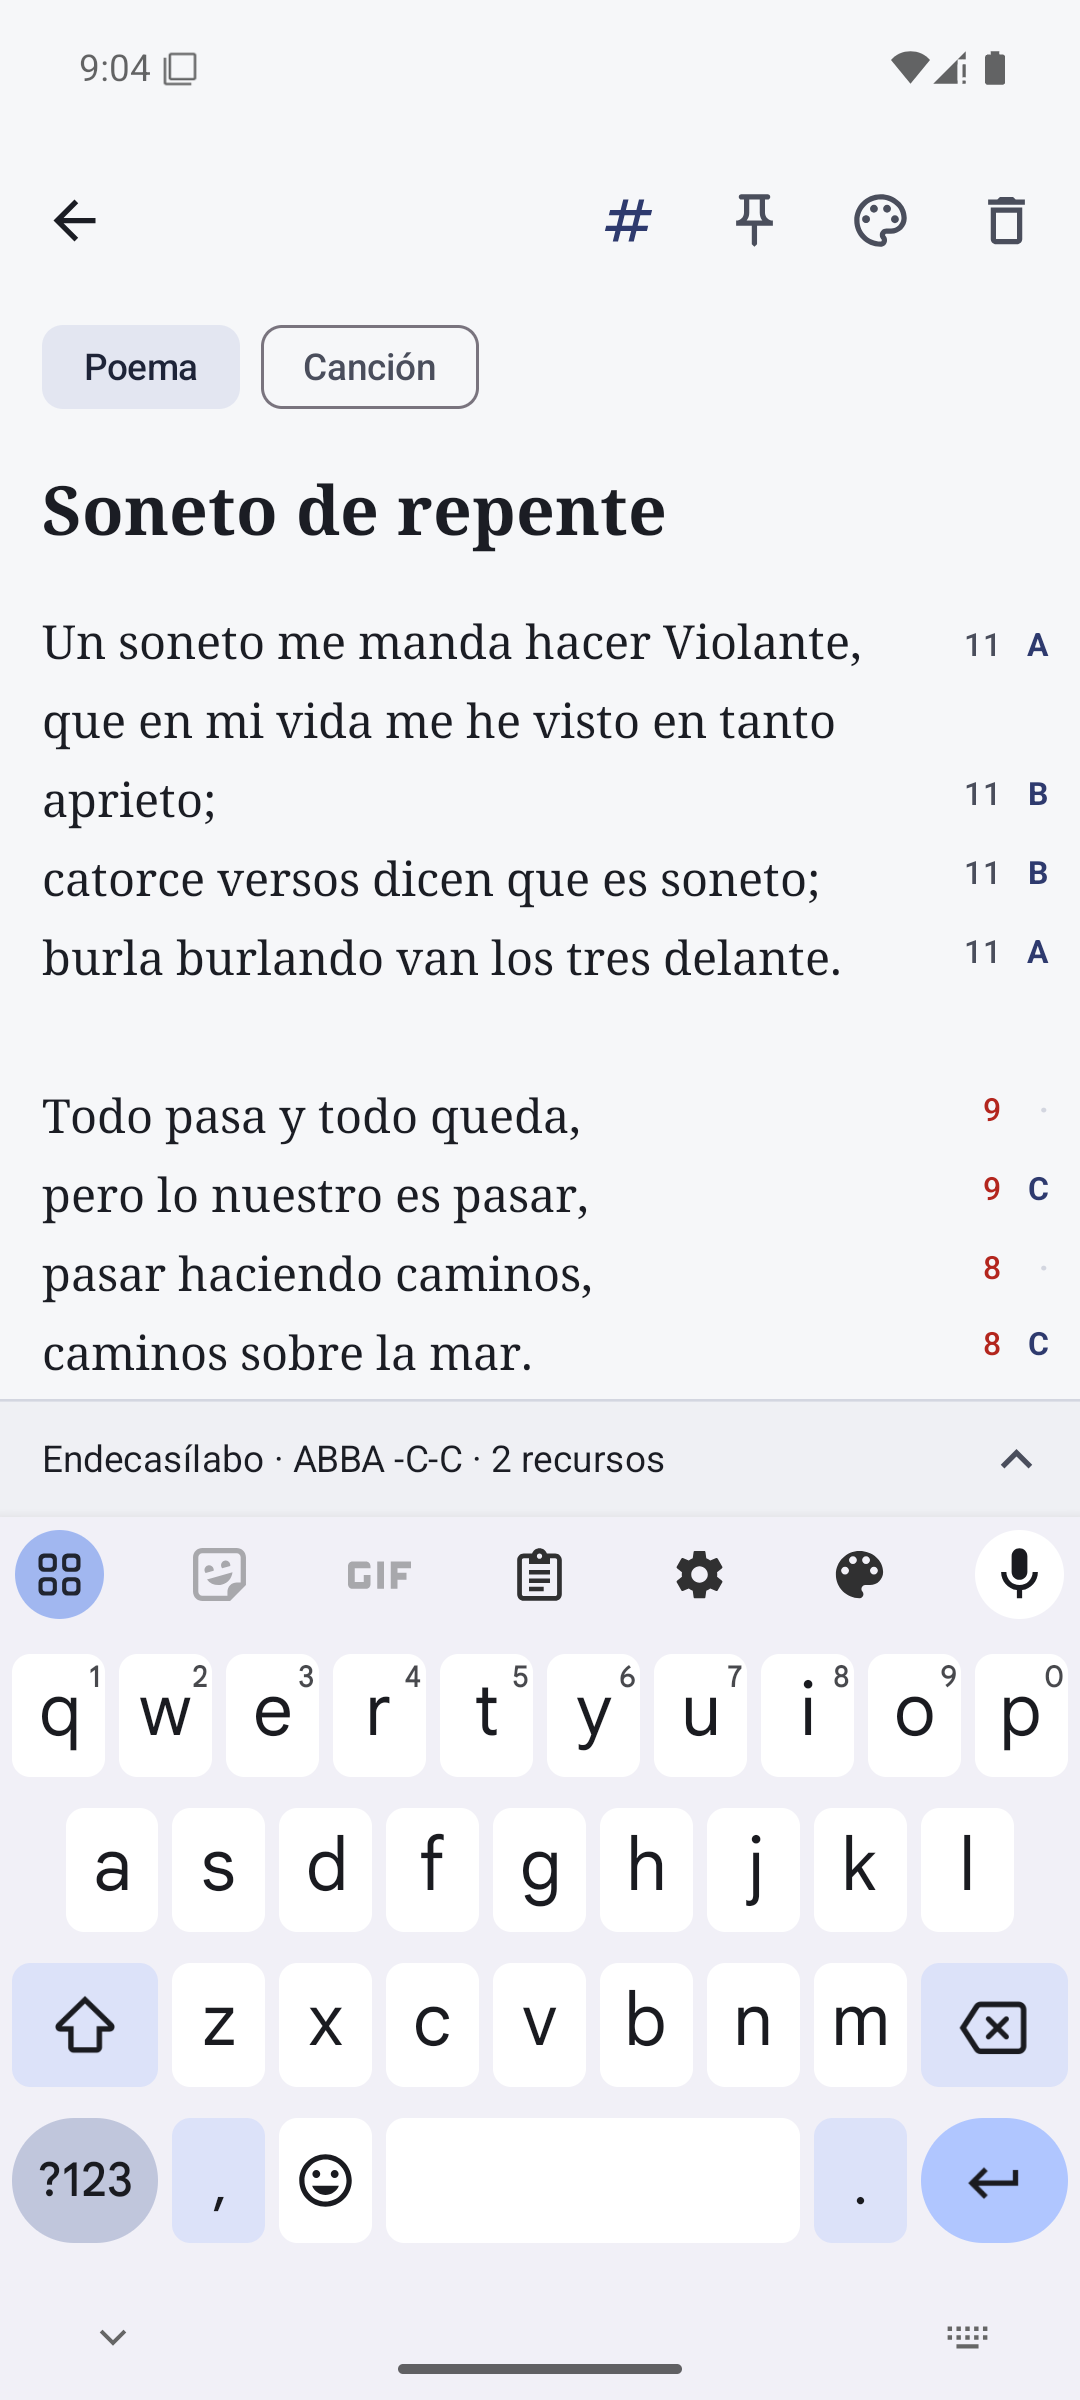
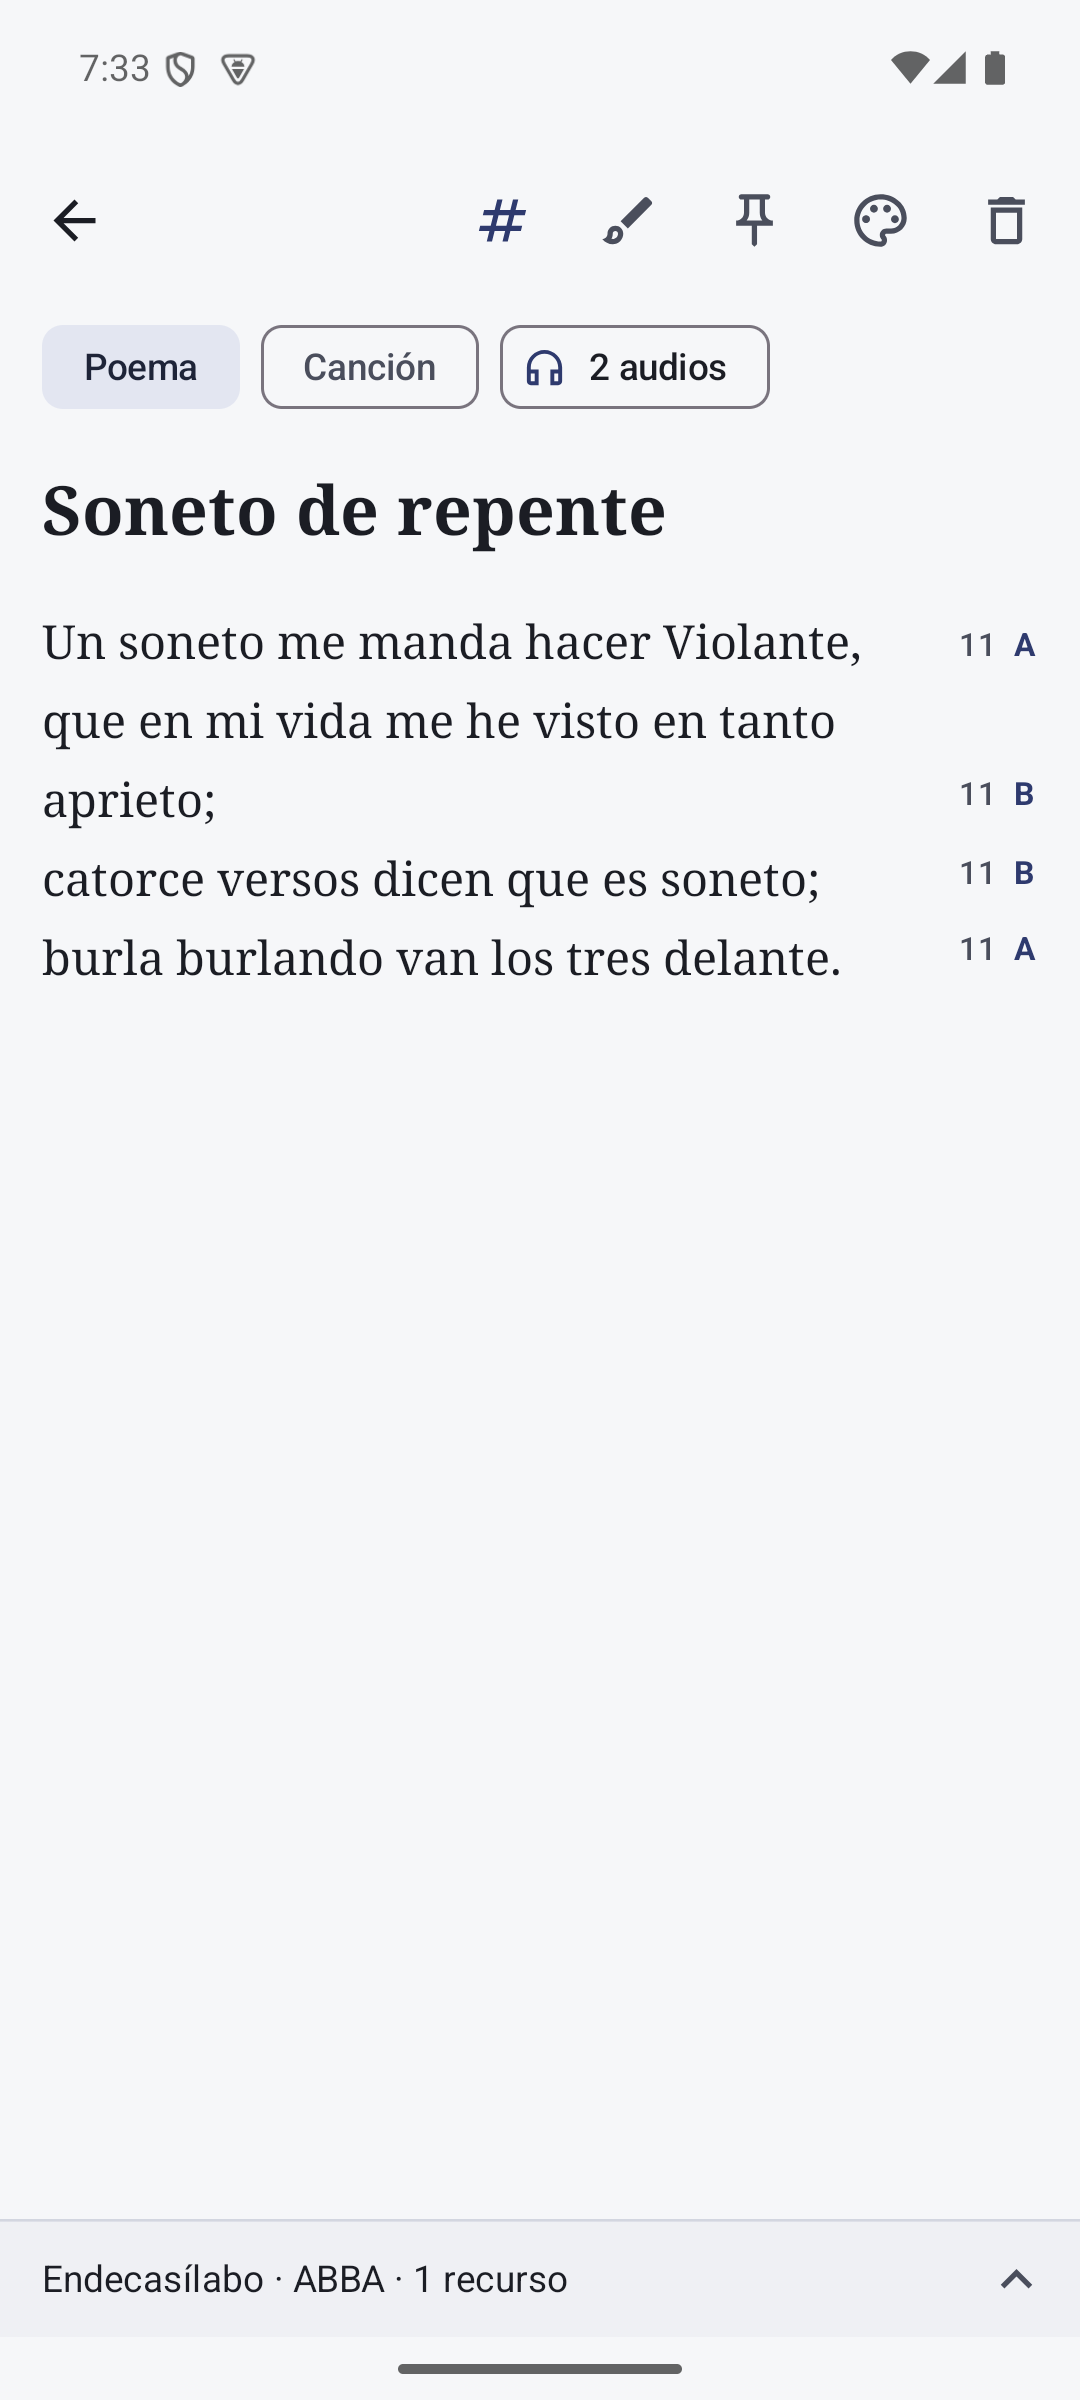
Docs: new screenshots for the README and documentation
Retaken on the emulator with the current app (bottom bar, brush and info
buttons, audios chip) and extended to the new features: notes home, rhyme
colouring, device info dialog, audios list, recording and a note's audios.
The README shows a gallery of eight; editor and architecture docs use them
in both languages.

diff --git a/docs/es/editor.md b/docs/es/editor.md
@@ -7,16 +7,22 @@ está en [analysis-engine.md](analysis-engine.md); el ciclo de vida de la nota, 
 [architecture.md](architecture.md).
 
 <p align="center">
-  <img src="../screenshots/editor-margin.png" width="220" alt="Margen de sílabas y rimas">
-  <img src="../screenshots/alliteration-clear.png" width="220" alt="Aliteración clara subrayada">
-  <img src="../screenshots/alliteration-possible-dark.png" width="220" alt="Aliteración posible punteada, modo oscuro">
+  <img src="../screenshots/editor-margin.png" width="200" alt="Margen de sílabas y rimas, con el chip de audios">
+  <img src="../screenshots/rhyme-colours.png" width="200" alt="Rimas coloreadas y el panel desplegado con su leyenda">
+  <img src="../screenshots/device-highlighted.png" width="200" alt="Un recurso elegido, resaltado con fondo">
+  <img src="../screenshots/device-info.png" width="200" alt="Diálogo de información de un recurso literario">
+</p>
+<p align="center">
+  <img src="../screenshots/alliteration-clear.png" width="200" alt="Aliteración clara, subrayado sólido">
+  <img src="../screenshots/alliteration-possible-dark.png" width="200" alt="Aliteración posible, subrayado punteado, modo oscuro">
+  <img src="../screenshots/note-audios.png" width="200" alt="Panel con los audios de la nota">
 </p>
 
 ## Qué ve quien escribe
 
 ```
- ←                      #   📌  🎨  🗑
- [Poema] [Canción]
+ ←                  #   🖌  📌  🎨  🗑
+ [Poema] [Canción] [🎧 2 audios]
  Soneto de repente
  Un soneto me manda hacer Violante,        11  A
  que en mi vida me he visto en tanto

diff --git a/README.es.md b/README.es.md
@@ -11,9 +11,16 @@ aliteración, la anáfora o el paralelismo. Además guarda **notas de voz y maqu
 en la app o se adjuntan audios, y se vinculan a las notas a las que pertenecen.
 
 <p align="center">
-  <img src="docs/screenshots/editor-margin.png" width="240" alt="Editor con sílabas y rimas al margen">
-  <img src="docs/screenshots/device-highlighted.png" width="240" alt="Anadiplosis resaltada en el texto">
-  <img src="docs/screenshots/alliteration-possible-dark.png" width="240" alt="Aliteración posible en modo oscuro">
+  <img src="docs/screenshots/home-notes.png" width="200" alt="Sección de notas: tarjetas con colores y contador de audios">
+  <img src="docs/screenshots/rhyme-colours.png" width="200" alt="Editor con sílabas, letras de rima y rimas coloreadas">
+  <img src="docs/screenshots/device-highlighted.png" width="200" alt="Un recurso literario (anadiplosis) resaltado en el texto">
+  <img src="docs/screenshots/audios.png" width="200" alt="Sección de audios: reproduciendo un audio vinculado a una nota">
+</p>
+<p align="center">
+  <img src="docs/screenshots/device-info.png" width="200" alt="Explicación de un recurso literario con un ejemplo clásico">
+  <img src="docs/screenshots/alliteration-possible-dark.png" width="200" alt="Aliteración posible con subrayado punteado, modo oscuro">
+  <img src="docs/screenshots/note-audios.png" width="200" alt="Audios vinculados a una nota, con uno sonando">
+  <img src="docs/screenshots/recording.png" width="200" alt="Grabando un audio">
 </p>
 
 ## Qué hace

diff --git a/docs/editor.md b/docs/editor.md
@@ -7,16 +7,22 @@ is in [analysis-engine.md](analysis-engine.md); the note's lifecycle, in
 [architecture.md](architecture.md).
 
 <p align="center">
-  <img src="screenshots/editor-margin.png" width="220" alt="Syllable and rhyme margin">
-  <img src="screenshots/alliteration-clear.png" width="220" alt="Clear alliteration, underlined">
-  <img src="screenshots/alliteration-possible-dark.png" width="220" alt="Possible alliteration, dotted, dark mode">
+  <img src="screenshots/editor-margin.png" width="200" alt="Syllable and rhyme margin, with the Audios chip">
+  <img src="screenshots/rhyme-colours.png" width="200" alt="Rhyme colouring and the expanded panel with its legend">
+  <img src="screenshots/device-highlighted.png" width="200" alt="A selected device highlighted with a background">
+  <img src="screenshots/device-info.png" width="200" alt="Info dialog of a literary device">
+</p>
+<p align="center">
+  <img src="screenshots/alliteration-clear.png" width="200" alt="Clear alliteration, solid underline">
+  <img src="screenshots/alliteration-possible-dark.png" width="200" alt="Possible alliteration, dotted underline, dark mode">
+  <img src="screenshots/note-audios.png" width="200" alt="The note's audios sheet">
 </p>
 
 ## What the writer sees
 
 ```
- ←                      #   📌  🎨  🗑
- [Poema] [Canción]
+ ←                  #   🖌  📌  🎨  🗑
+ [Poema] [Canción] [🎧 2 audios]
  Soneto de repente
  Un soneto me manda hacer Violante,        11  A
  que en mi vida me he visto en tanto

diff --git a/README.md b/README.md
@@ -13,9 +13,16 @@ them in the app or attach audio files, and link them to the notes they belong to
 The app's interface and analysis are in Spanish, and it is designed for Spanish verse.
 
 <p align="center">
-  <img src="docs/screenshots/editor-margin.png" width="240" alt="Editor with syllables and rhymes in the margin">
-  <img src="docs/screenshots/device-highlighted.png" width="240" alt="Anadiplosis highlighted in the text">
-  <img src="docs/screenshots/alliteration-possible-dark.png" width="240" alt="Possible alliteration in dark mode">
+  <img src="docs/screenshots/home-notes.png" width="200" alt="Notes section: cards with colours and audio counters">
+  <img src="docs/screenshots/rhyme-colours.png" width="200" alt="Editor with syllables, rhyme letters and coloured rhymes">
+  <img src="docs/screenshots/device-highlighted.png" width="200" alt="A literary device (anadiplosis) highlighted in the text">
+  <img src="docs/screenshots/audios.png" width="200" alt="Audios section: playing an audio linked to a note">
+</p>
+<p align="center">
+  <img src="docs/screenshots/device-info.png" width="200" alt="Explanation of a literary device with a classic example">
+  <img src="docs/screenshots/alliteration-possible-dark.png" width="200" alt="Possible alliteration with a dotted underline, dark mode">
+  <img src="docs/screenshots/note-audios.png" width="200" alt="A note's linked audios, playing one">
+  <img src="docs/screenshots/recording.png" width="200" alt="Recording an audio">
 </p>
 
 ## Features

diff --git a/docs/es/architecture.md b/docs/es/architecture.md
@@ -168,6 +168,12 @@ Dos detalles evitan notas duplicadas:
 
 ## Audios
 
+<p align="center">
+  <img src="../screenshots/audios.png" width="200" alt="Sección de audios">
+  <img src="../screenshots/recording.png" width="200" alt="Grabando">
+  <img src="../screenshots/note-audios.png" width="200" alt="Audios de una nota">
+</p>
+
 **Grabación** (`AudioRecorder`, manejado por `AudiosViewModel`): AAC en un archivo `.m4a`,
 mono, 44,1 kHz, 128 kbps (alrededor de 1 MB por minuto). El panel de grabación consulta el
 tiempo transcurrido y el nivel de entrada cada 100 ms. Cuando la app pasa a segundo plano

diff --git a/docs/architecture.md b/docs/architecture.md
@@ -166,6 +166,12 @@ Two details prevent duplicate notes:
 
 ## Audios
 
+<p align="center">
+  <img src="screenshots/audios.png" width="200" alt="Audios section">
+  <img src="screenshots/recording.png" width="200" alt="Recording">
+  <img src="screenshots/note-audios.png" width="200" alt="A note's audios">
+</p>
+
 **Recording** (`AudioRecorder`, driven by `AudiosViewModel`): AAC in an `.m4a` file, mono,
 44.1 kHz, 128 kbps (about 1 MB per minute). The recording sheet polls the elapsed time and
 the input level every 100 ms. When the app goes to the background (`ON_STOP`) the recording
